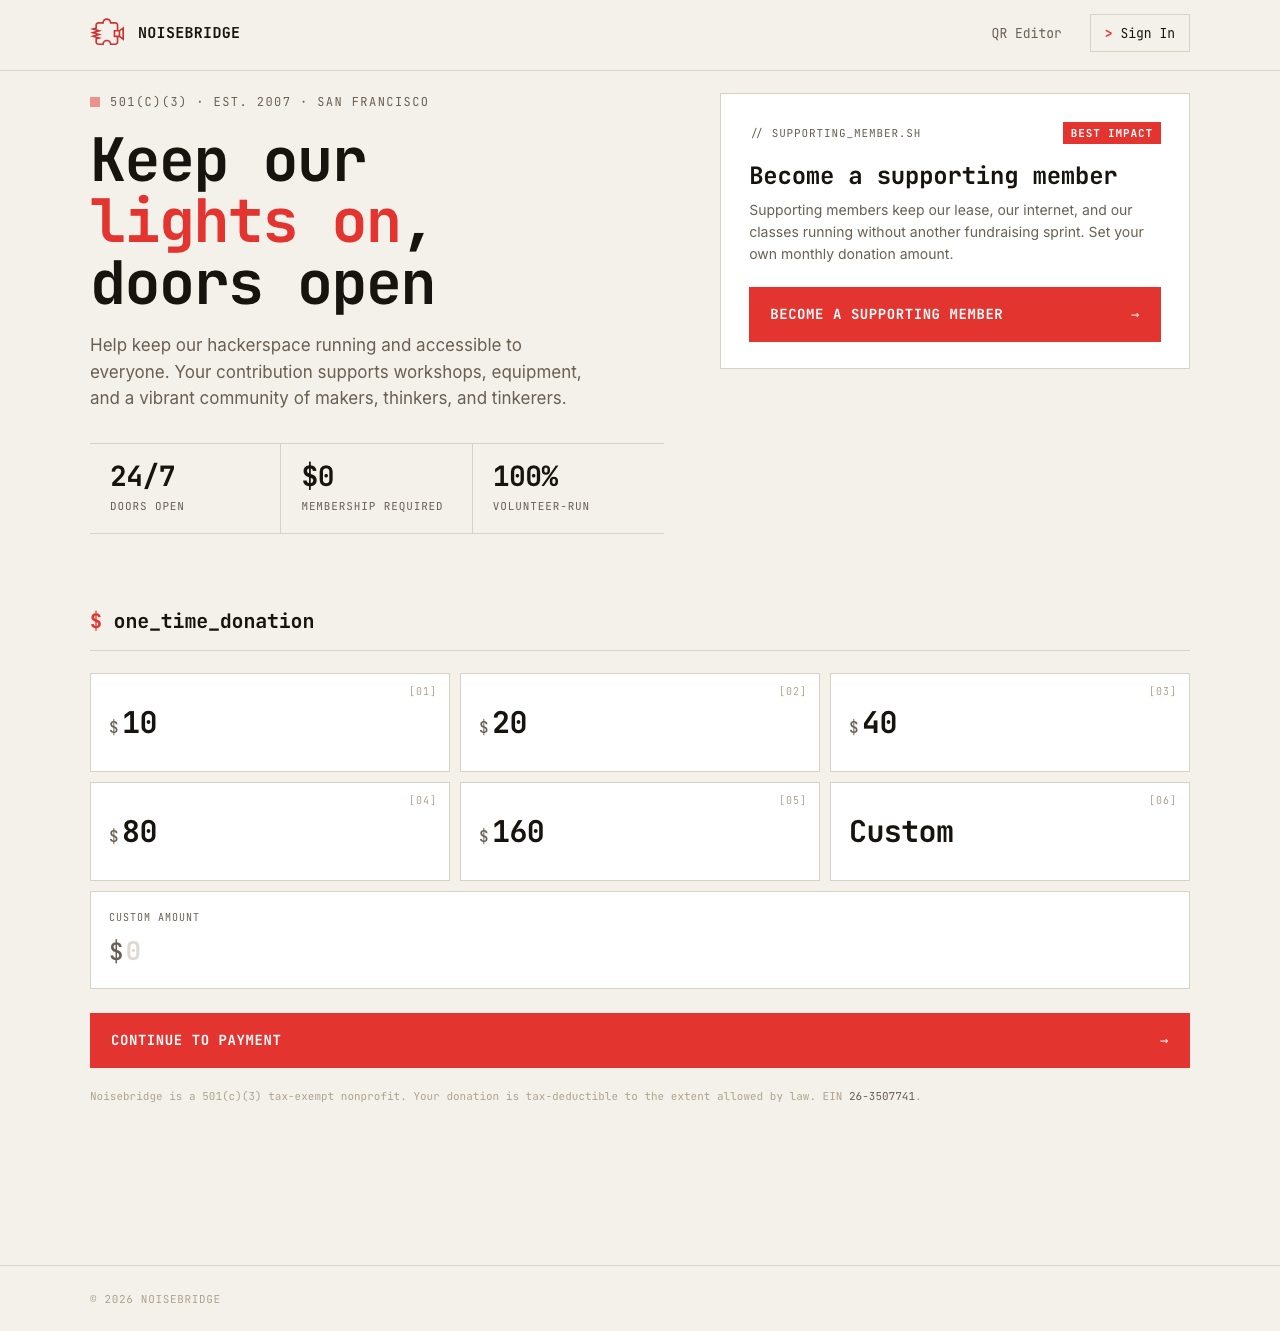
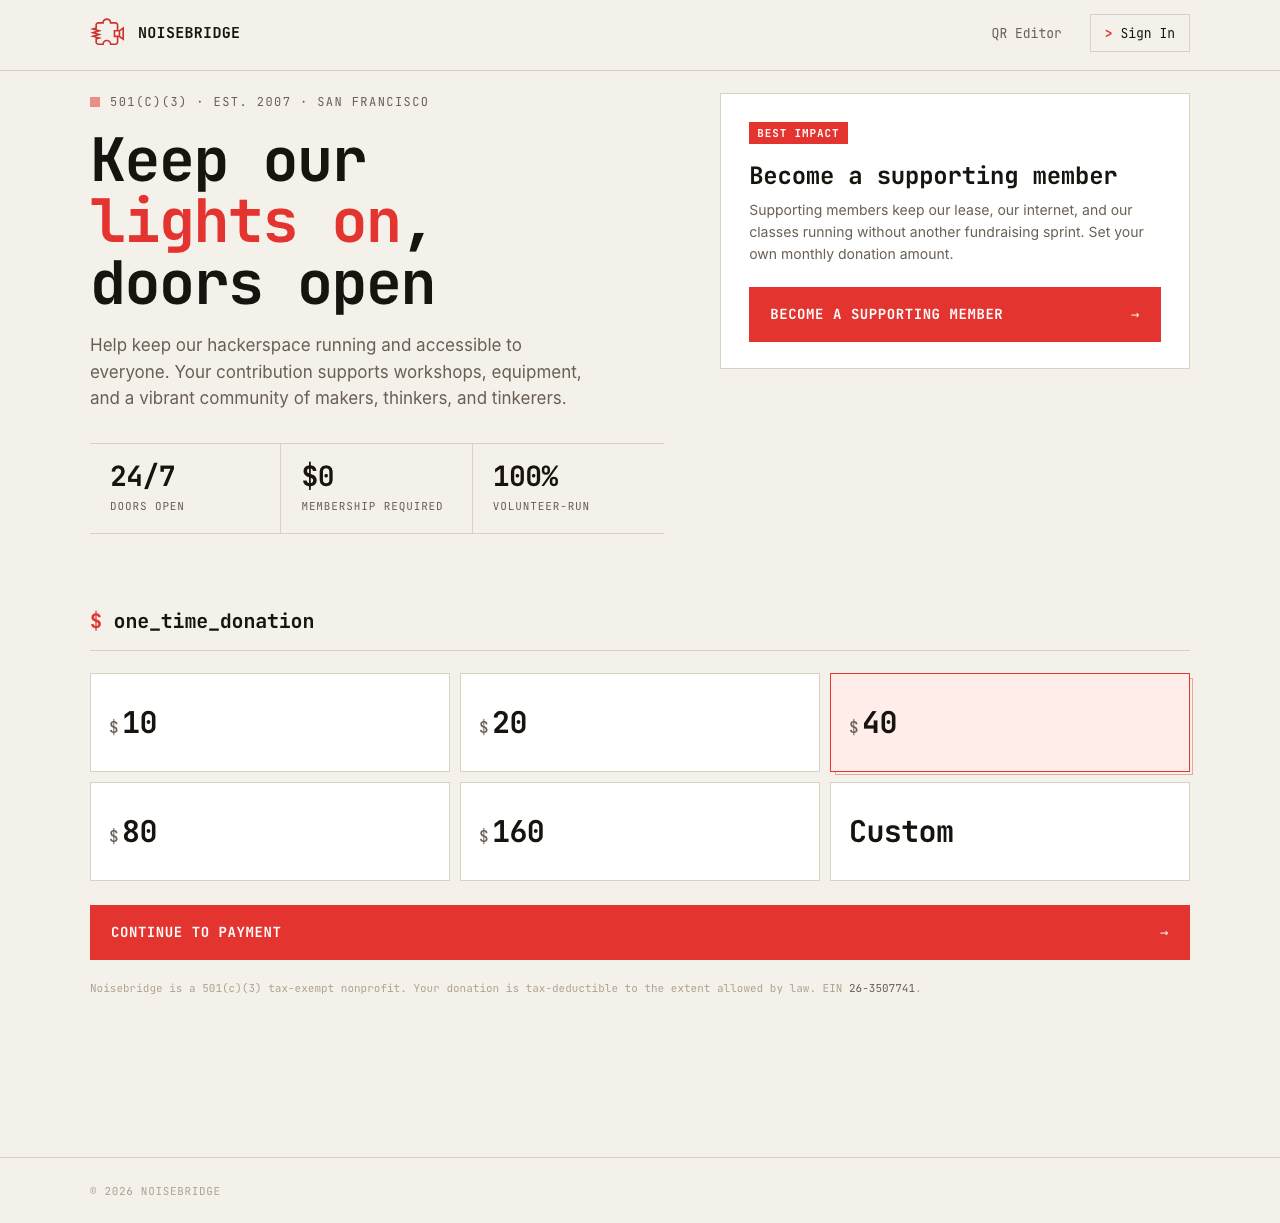
Update screenshot

diff --git a/scripts/screenshot.ts b/scripts/screenshot.ts
@@ -1,5 +1,8 @@
 #!/usr/bin/env bun
 
+import { mkdtempSync } from "node:fs";
+import { tmpdir } from "node:os";
+import path from "node:path";
 import { firefox } from "playwright";
 import config from "~/config";
 
@@ -22,7 +25,19 @@ try {
     }
   }
 
-  const browser = await firefox.launch();
+  // Same macOS 27 Firefox workaround as playwright.config.ts.
+  const browser = await firefox.launch(
+    process.platform === "darwin"
+      ? {
+          env: {
+            ...process.env,
+            CFFIXED_USER_HOME: mkdtempSync(
+              path.join(tmpdir(), "playwright-firefox-home-"),
+            ),
+          },
+        }
+      : {},
+  );
   const page = await browser.newPage({
     viewport: { width: 1280, height: 800 },
   });

diff --git a/src/views/qr.tsx b/src/views/qr.tsx
@@ -60,7 +60,7 @@ export function QrPage({
                 autocomplete="off"
                 autocapitalize="off"
                 autocorrect="off"
-                spellcheck={false}
+                spellcheck="false"
                 data-1p-ignore
                 data-lpignore="true"
                 data-form-type="other"
